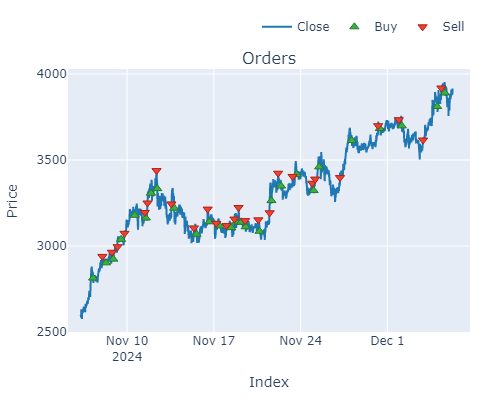
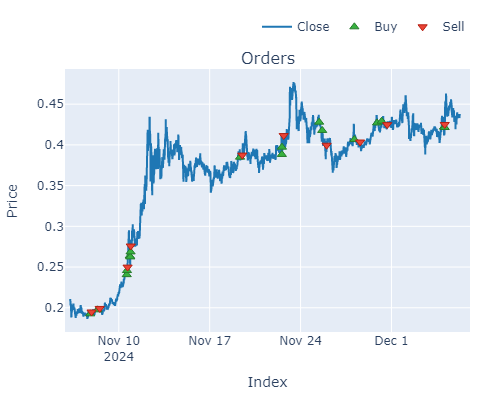
completed backtest

diff --git a/core/backtest.py b/core/backtest.py
@@ -26,7 +26,8 @@ from core.risk import Risk_Handler
 from core.log import LinkedList
 from core.hyper import Hyper
 import plotly
-import io
+from io import BytesIO
+from PIL import Image
 #pd.set_option('display.max_rows', None)
 #pd.set_option('display.max_columns', None)
 
@@ -36,7 +37,7 @@ class Backtest():
     def __init__(self):
         self.symbols = ['BTC-USD', 'ETH-USD', 'DOGE-USD', 'SHIB-USD', 'AVAX-USD', 'BCH-USD', 'LINK-USD', 'UNI-USD', 'LTC-USD', 'XLM-USD', 'ETC-USD', 'AAVE-USD', 'XTZ-USD', 'COMP-USD']
         self.granularites = ['ONE_MINUTE','FIVE_MINUTE','FIFTEEN_MINUTE','THIRTY_MINUTE','ONE_HOUR','TWO_HOUR','SIX_HOUR','ONE_DAY']
-        self.product = ['BTC-USD']
+        self.product = ['XTZ-USD']
         self.granularity = 'ONE_MINUTE'
         
 
@@ -90,6 +91,10 @@ class Backtest():
             strat.generate_backtest()
             pf = strat.portfolio
             print(pf.stats())
+            if graph_callback:
+                fig = pf.plot(subplots =['orders'])
+                #fig.show()
+                graph_callback(fig)
 
             # fig = pf.plot(subplots = [
             # 'orders',
@@ -109,20 +114,6 @@ class Backtest():
             #         't': 100  # Adjust the top margin to create space for the title
             #     }
             # )
-            if graph_callback:
-                fig = pf.plot(subplots =['orders'])
-                fig.show()
-                try:
-                    print(os.environ["PATH"])
-                    plotly.io.orca.config.executable =r"C:\Users\dazet\AppData\Local\Programs\orca\orca.exe"
-                    plotly.io.orca.config.save()
-                    print(plotly.io.orca.config.executable)
-                    plotly.io.write_image(fig=fig, file='gui/images/backtest_graph/graph.png', format="png", width=500, height=400, engine='orca')
-                    #buffer = io.BytesIO(image_bytes)
-                    print('converted plotly to image')
-                    graph_callback()
-                except Exception as e:
-                    print(f"Error: {e}")
                 
 
     def run_hyper(self):
@@ -138,7 +129,7 @@ class Backtest():
                 days = 365
             dict_df = database_interaction.get_historical_from_db(granularity=granularity,
                                                                 symbols=self.symbols,
-                                                                num_days=days)
+                                                                num_days=25)
             print(f'...Running hyper on {len(self.symbols)} symbols')
 
             #dict_df = utils.heikin_ashi_transform(dict_df)
@@ -163,24 +154,21 @@ class Backtest():
                     strategy=strat,
                     hyper=hyper)
                 
-                #print(f"Execution Time: {time.time() - start_time}")
+                print(f"Execution Time: {time.time() - start_time}")
                 utils.progress_bar_with_eta(
                     progress=i,
                     data=dict_df.keys(),
                     start_time=start_time)
                 del hyper
                 gc.collect()
-                
-                # fig = hyper.returns.vbt.volume(# this line is now volume for a 3D
-                #     x_level = 'cust_fast_window',
-                #     y_level = 'cust_slow_window',
-                #     z_level = 'cust_efrato_window',
-                # )
+            
+            # fig = hyper.returns.vbt.volume(# this line is now volume for a 3D
+            #     x_level = 'cust_fast_window',
+            #     y_level = 'cust_slow_window',
+            #     z_level = 'cust_efrato_window',
+            # )
 
-                    # fig = hyper.returns.vbt.heatmap(
-                    # x_level = 'cust_fast_window',
-                    # y_level = 'cust_slow_window')
-                    # fig.show()
-
-# test = Backtest()
-# test.run_basic_backtest("BTC-USD", "ONE_MINUTE", RSI_ADX_NP, 50, best_params=True)
+                # fig = hyper.returns.vbt.heatmap(
+                # x_level = 'cust_fast_window',
+                # y_level = 'cust_slow_window')
+                # fig.show()

diff --git a/gui/crypto_trader.py b/gui/crypto_trader.py
@@ -5,6 +5,9 @@ from threading import Thread
 from tkinter import messagebox
 import sys
 import os
+import plotly
+from io import BytesIO
+from PIL import Image
 sys.path.append(os.path.abspath(os.path.join(os.path.dirname(__file__), '..')))
 
 from core.livetrader import LiveTrader
@@ -186,14 +189,22 @@ class CryptoTrader():
             self.start_backtest_button['state'] = 'normal'
 
     def setup_backtest_thread(self):
-        def update_graph(graph_img=None):
+        def update_graph(fig):
             self.backtest_progress.stop()
             self.backtest_progress.destroy()
 
-            myimg = Image.open('gui/images/backtest_graph/graph.png')
-            myimg = ImageTk.PhotoImage(myimg)
+            plotly.io.orca.config.executable =r"C:\Users\dazet\AppData\Local\Programs\orca\orca.exe"
+            plotly.io.orca.config.save()
 
-            self.backtest_graph.create_image(10, 10, image=myimg, anchor='nw')
+            # plotly.io.write_image(fig=fig, file='gui/images/backtest_graph/graph.png', format="png", width=500, height=400, engine='orca')
+            # print('converted plotly to image')
+
+            image_buffer = BytesIO()
+            plotly.io.write_image(graph_img, image_buffer, format='png', width=500, height=400, engine='orca')
+            image_buffer.seek(0)
+            image = Image.open(image_buffer)
+            self.graph_image = ImageTk.PhotoImage(image)    
+            self.backtest_graph.create_image(0, 0, image=self.graph_image, anchor='nw')
             self.backtest_graph.grid()
 
         def start_backtest():

diff --git a/core/livetrader.py b/core/livetrader.py
@@ -32,7 +32,7 @@ class LiveTrader:
         self.extract_classes_from_scripts()
 
         #self.update_candle_data()
-        #self.load_strategy_params_for_strategy()
+        self.load_strategy_params_for_strategy()
     
     def extract_classes_from_scripts(self):
         strat_path = 'core/strategies'
@@ -55,7 +55,7 @@ class LiveTrader:
     def load_strategy_params_for_strategy(self):
         # Load strategy parameters for each symbol
         for symb in self.scanner.kraken_crypto:
-            strat = RSI_ADX_GPU(dict_df=None, risk_object=self.risk)
+            strat = RSI_ADX(dict_df=None, risk_object=self.risk)
             strat.symbol = symb
             params = database_interaction.get_best_params(
                 strat,
@@ -120,5 +120,5 @@ class LiveTrader:
         await self.fetch_data_periodically()
 
 
-#trader = LiveTrader()
-#asyncio.run(trader.main())
+# trader = LiveTrader()
+# asyncio.run(trader.main())

diff --git a/core/strategies/strategy.py b/core/strategies/strategy.py
@@ -28,7 +28,12 @@ class Strategy:
             self.low = self.df['low']
             self.close = self.df['close']
             self.volume = self.df['volume']
-            
+
+            self.close_np = np.array(self.close)
+            self.high_np = np.array(self.high)
+            self.low_np = np.array(self.low)
+            self.open_np = np.array(self.open)
+            self.volume_np = np.array(self.volume)            
 
 
             if self.__class__.__name__.split('_')[-1] == 'GPU':
@@ -296,6 +301,7 @@ class Strategy:
                 time_diff = pd.Timedelta(minutes=1)
             time_differences.append(time_diff)
         time_diff = max(time_differences, key=time_differences.count)
+        #print(time_diff)
         time_map = {
             pd.Timedelta(minutes=1): 'ONE_MINUTE',
             pd.Timedelta(minutes=5): 'FIVE_MINUTE',

diff --git a/core/database_interaction.py b/core/database_interaction.py
@@ -204,7 +204,7 @@ def export_hyper_to_db(strategy: object, hyper: object):
     data = hyper.pf.stats(silence_warnings=True,
                           agg_func=None)
 
-    conn = sql.connect(f'{database_path}hyper.db')
+    conn = sql.connect(f'core/database/hyper.db')
 
     symbol = strategy.symbol
     granularity = strategy.granularity
@@ -216,8 +216,8 @@ def export_hyper_to_db(strategy: object, hyper: object):
     for i in range(len(data)):
         stats = data.iloc[i]
         backtest_dict = {'symbol': symbol}
-        # for j,param in enumerate(params):
-        #     backtest_dict[param] = stats.name[j]
+        for j,param in enumerate(params):
+            backtest_dict[param] = stats.name[j]
 
         for key, value in stats.items():
             if key in stats_to_export:

diff --git a/core/strategies/gpu_optimized/rsi_adx_gpu.py b/core/strategies/gpu_optimized/rsi_adx_gpu.py
@@ -13,11 +13,6 @@ class RSI_ADX_GPU(Strategy):
         super().__init__(dict_df=dict_df, risk_object=risk_object, with_sizing=with_sizing)
         self.hyper = hyper
 
-        self.close_gpu = cp.array(self.close)
-        self.high_gpu = cp.array(self.high)
-        self.low_gpu = cp.array(self.low)
-        self.open_gpu = cp.array(self.open)
-        self.volume_gpu = cp.array(self.volume)
     def custom_indicator(self, close=None, rsi_window=20, buy_threshold=15, sell_threshold=70,
                             adx_buy_threshold=30, adx_time_period=20):
         if not self.hyper:

diff --git a/core/strategies/gpu_optimized/rsi_adx_np.py b/core/strategies/gpu_optimized/rsi_adx_np.py
@@ -12,12 +12,6 @@ class RSI_ADX_NP(Strategy):
         super().__init__(dict_df=dict_df, risk_object=risk_object, with_sizing=with_sizing)
         self.hyper = hyper
 
-        self.close_np = np.array(self.close)
-        self.high_np = np.array(self.high)
-        self.low_np = np.array(self.low)
-        self.open_np = np.array(self.open)
-        self.volume_np = np.array(self.volume)
-
     def custom_indicator(self, close=None, rsi_window=20, buy_threshold=15, sell_threshold=70,
                          adx_buy_threshold=30, adx_time_period=20):
         if not self.hyper:

diff --git a/core/__main__.py b/core/__main__.py
@@ -77,7 +77,7 @@ scanner.coinbase.get_candles_for_db(scanner.coinbase_crypto, kraken.granularity,
 
 for symbol in scanner.kraken_crypto:
 
-    strat = RSI_ADX_GPU(dict_df= None, risk_object=risk)
+    strat = RSI_ADX(dict_df= None, risk_object=risk)
     strat.symbol = symbol
     params = database_interaction.get_best_params(strat, df_manager,live_trading=True, best_of_all_granularities=True, minimum_trades=3)
     risk.symbol_params[symbol] = params
